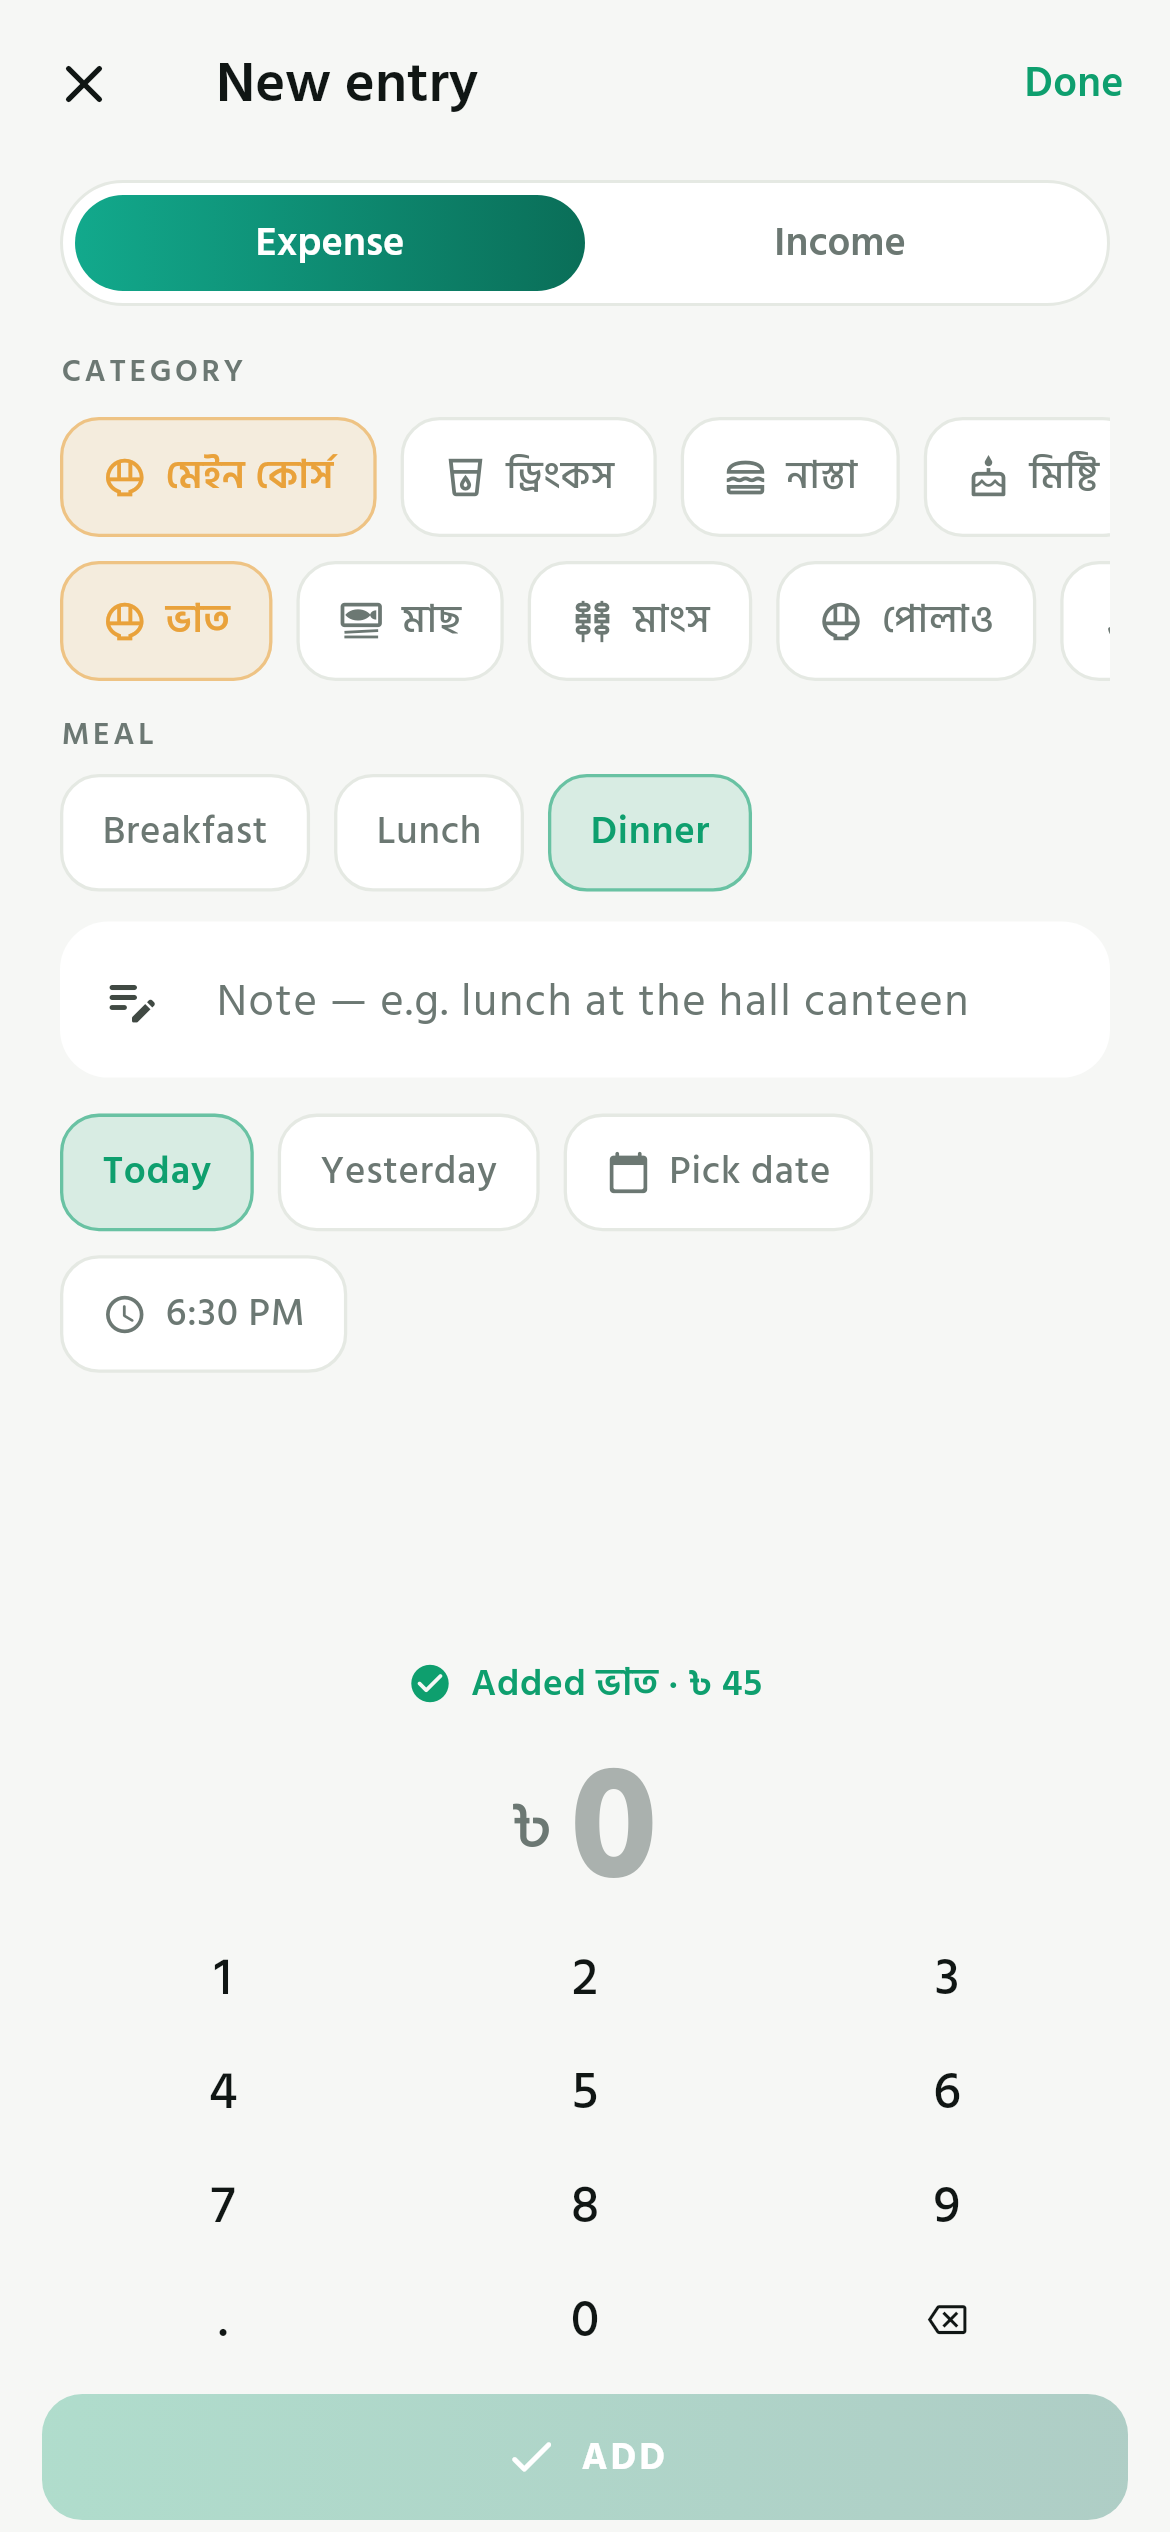
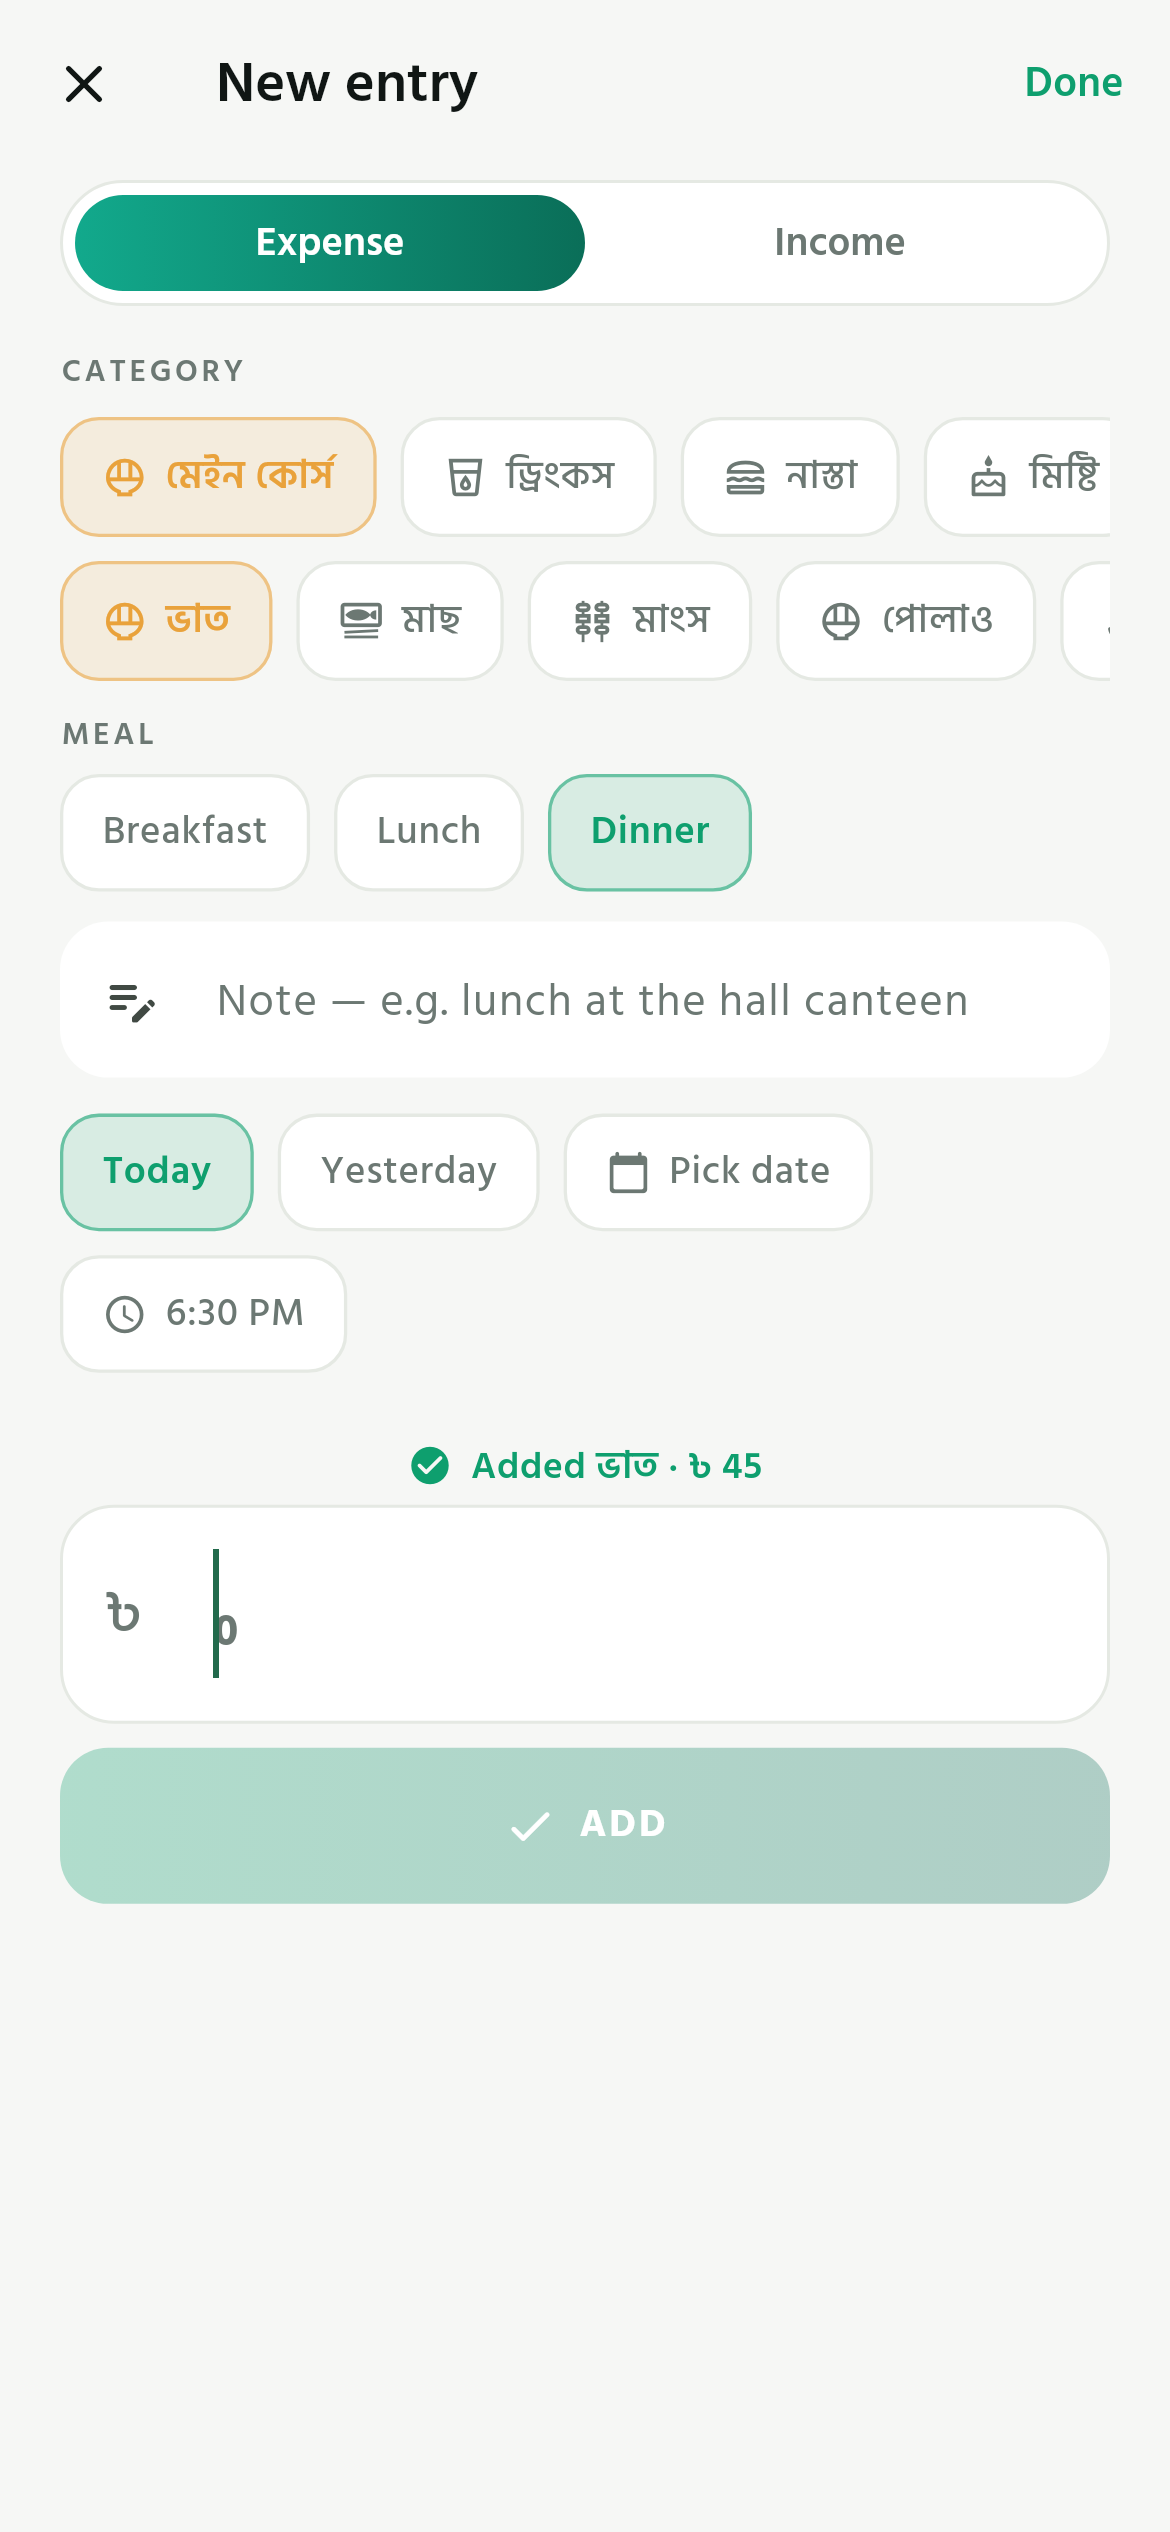
docs: v1.4.0 — breakdowns, the phone keyboard, one egg
Screenshots for week, month and year, refreshed entry screens, the changelog
entry, schema v5 in the data model, and the test table naming the new period
suite. Version 1.4.0+5.

diff --git a/lib/core/app_info.dart b/lib/core/app_info.dart
@@ -6,7 +6,7 @@ class AppInfo {
   static const String name = 'Taka';
   static const String nameBn = 'টাকা';
   static const String tagline = 'Amar taka gelota koi?';
-  static const String version = '1.3.0';
+  static const String version = '1.4.0';
 
   /// The person this was built for, and by.
   static const String author = 'Mazidul Islam Mahim';

diff --git a/README.md b/README.md
@@ -12,8 +12,8 @@ much of the month is left.
 ![Flutter](https://img.shields.io/badge/Flutter-3.47-02569B?logo=flutter&logoColor=white)
 ![Dart](https://img.shields.io/badge/Dart-3.13-0175C2?logo=dart&logoColor=white)
 ![Android](https://img.shields.io/badge/Android-API%2021%2B-3DDC84?logo=android&logoColor=white)
-![Tests](https://img.shields.io/badge/tests-59%20passing-0E9F6E)
-[![Download APK](https://img.shields.io/badge/download-v1.3.0%20APK-0E9F6E?logo=android&logoColor=white)](https://github.com/mahimmazidul/taka/releases/latest)
+![Tests](https://img.shields.io/badge/tests-77%20passing-0E9F6E)
+[![Download APK](https://img.shields.io/badge/download-v1.4.0%20APK-0E9F6E?logo=android&logoColor=white)](https://github.com/mahimmazidul/taka/releases/latest)
 [![Build & Release](https://github.com/mahimmazidul/taka/actions/workflows/release.yml/badge.svg)](https://github.com/mahimmazidul/taka/actions/workflows/release.yml)
 
 ---
@@ -40,17 +40,21 @@ refreshed whenever the UI changes. No mockups.
 |---|---|
 | ![Categories](docs/screenshots/categories.png) | ![Settings](docs/screenshots/settings.png) |
 
-| Add entry (after saving) | Landscape |
+| Add entry (after saving) | Week breakdown |
 |---|---|
-| ![Add entry, saved](docs/screenshots/add_entry_saved.png) | ![Add entry in landscape](docs/screenshots/add_entry_landscape.png) |
+| ![Add entry, saved](docs/screenshots/add_entry_saved.png) | ![Week](docs/screenshots/period_week.png) |
 
-| Home (landscape) | Small phone (320 × 568) |
+| Month breakdown | Year breakdown |
 |---|---|
-| ![Home in landscape](docs/screenshots/home_landscape.png) | ![Small phone](docs/screenshots/home_small.png) |
+| ![Month](docs/screenshots/period_month.png) | ![Year](docs/screenshots/period_year.png) |
 
-| About | |
+| Add entry (landscape) | Home (landscape) |
 |---|---|
-| ![About](docs/screenshots/about.png) | |
+| ![Add entry in landscape](docs/screenshots/add_entry_landscape.png) | ![Home in landscape](docs/screenshots/home_landscape.png) |
+
+| About | Small phone (320 × 568) |
+|---|---|
+| ![About](docs/screenshots/about.png) | ![Small phone](docs/screenshots/home_small.png) |
 
 ---
 
@@ -169,7 +173,7 @@ Quality gates used in CI:
 
 ```bash
 flutter analyze                               # 0 issues
-flutter test --concurrency=1                  # 59 tests
+flutter test --concurrency=1                  # 77 tests
 dart format --output=none --set-exit-if-changed lib test
 ```
 
@@ -225,11 +229,11 @@ Five runtime dependencies, all of them boring: `sqflite` (local SQLite), `path`,
 Android's share sheet) and `file_picker` 13 (pick a JSON file to restore). No
 state-management package, no chart package, no HTTP client, no analytics.
 
-### Data model (SQLite `taka.db`, schema v4)
+### Data model (SQLite `taka.db`, schema v5)
 
 ```sql
 categories(id, name, name_bn, icon, color, kind, budget_minor,
-           sort_order, parent_id, is_group, food)
+           sort_order, parent_id, is_group, food, also_groups)
 transactions(id, type, amount_minor, category_id, note,
              occurred_at, created_at, updated_at, meal)
 udhar_entries(id, type, person, amount_minor, note, occurred_at,
@@ -272,14 +276,15 @@ through two upgrades, v2 → v4.
 
 ### Tests
 
-59 tests, all offline (26 logic, 24 database and food rules, 8 screen, 13 golden):
+77 tests, all offline (26 logic, 25 database and rules, 10 screen, 16 golden):
 
 | File | Covers |
 |---|---|
 | `test/logic_test.dart` | money formatting, exact keypad→paisa conversion, date helpers, budget thresholds, labels |
-| `test/database_test.dart` | the real schema and SQL on SQLite: seeds and the category tree, CRUD, totals, per-day buckets, filters, category reassignment and group deletion, udhar settlement, settings, backup round-trip, CSV, and the v2 → v3 migration |
+| `test/database_test.dart` | the real schema and SQL on SQLite: seeds and the category tree, CRUD, totals, per-day buckets, filters, category reassignment and group deletion, udhar settlement, settings, backup round-trip, CSV, and both migrations (v2 → v4, and the v4 duplicate merge) |
+| `test/period_stats_test.dart` | the day / week / month / year maths behind the breakdowns: empty days kept, income kept apart from spending, the month list starting where the history starts, a day's entries newest first |
 | `test/food_logic_test.dart` | the meal rule: which categories may take a meal, that a non-food entry never lands in a meal total even if an old row stored one, why noodles and egg exist twice, and that `today` really resets at midnight |
-| `test/screens_test.dart` | the whole app at 320 / 360 / 414 / 768 widths **and in landscape**, 1.3× text scale, tab switching, adding an entry end-to-end, the meal row disappearing for a face wash, dark-mode toggle |
+| `test/screens_test.dart` | the whole app at 320 / 360 / 414 / 768 widths **and in landscape**, 1.3× text scale, tab switching, adding an entry end-to-end, the meal row disappearing for a face wash, the period breakdowns and their day sheet, dark-mode toggle |
 | `test/golden_test.dart` | every screenshot in this README |
 
 ---
@@ -294,6 +299,17 @@ through two upgrades, v2 → v4.
 
 ## Changelog
 
+- **v1.4.0** — the numbers have somewhere to go. Tapping **Spent today / This
+  week / This month** on Home opens a breakdown: week gives all seven days with
+  the amount for each (empty days included), month gives a calendar where any
+  date opens that day's entries plus every month since you started using the app,
+  and year gives the whole year month by month. The hand-built keypad is gone —
+  the amount is a normal field with the phone's own numeric keyboard, so the keys
+  are the size the OS says, and the cursor stays in it after saving so
+  type–tap–type–tap works. Egg and noodles are no longer two categories each: one
+  row, one total, listed under both groups (`also_groups`, schema v5), with the
+  duplicates from 1.3.0 merged back on upgrade. Two migration-order bugs found and
+  fixed by the tests, again.
 - **v1.3.0** — the correctness release. Meal tags are now a property of the
   category (`food`), not a guess: a face wash can no longer be logged as
   breakfast, and the meal strip only counts food money. Added noodles and egg to
